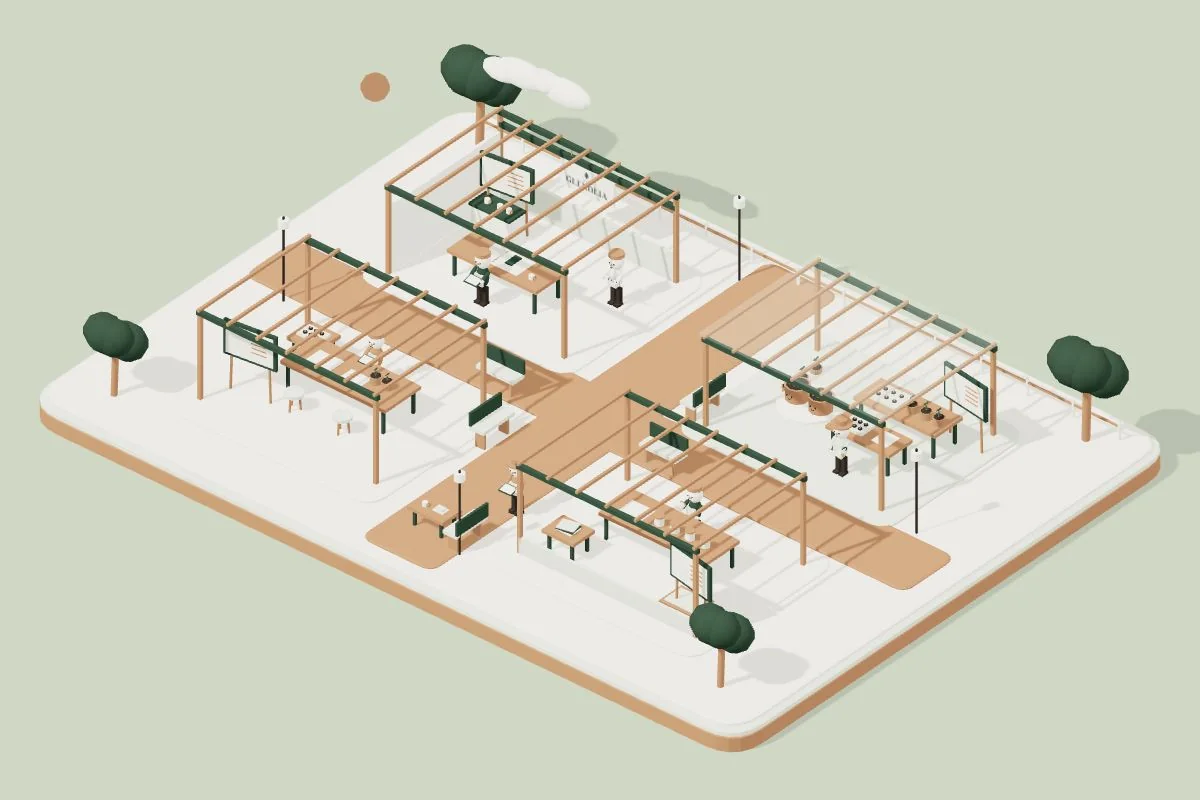
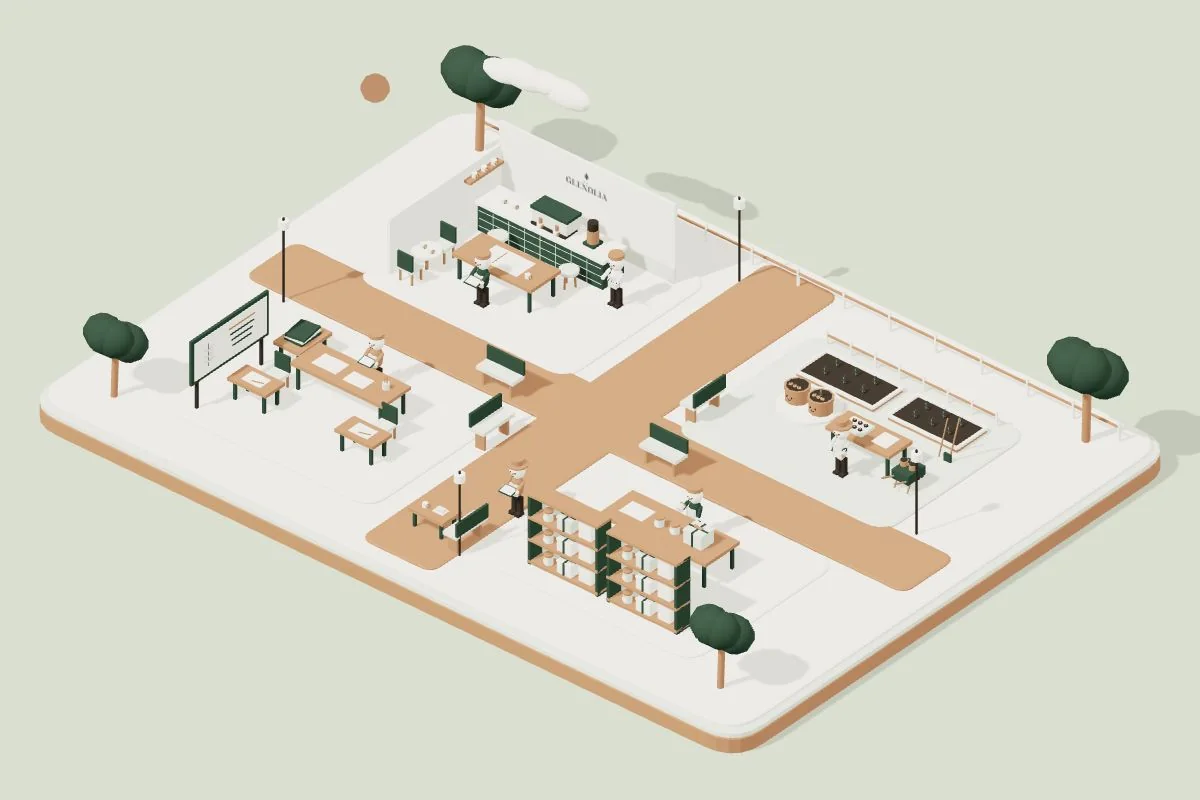
Differentiate roofless programme department scenes

Changed region(s): [[0.37, 0.3125, 0.8325, 0.8125], [0.1542, 0.125, 0.6167, 0.5938], [0.8633, 0.4688, 0.8942, 0.5]]

diff --git a/src/progress/programme-world.js b/src/progress/programme-world.js
@@ -86,12 +86,28 @@ function planningBoard(parent,x,z,rotation=0) {
   for (let i=0;i<4;i++) {box(g,.45,.02,.02,'sage',-.42,2.24-i*.16,.09);box(g,.55,.025,.02,'copper',.35,2.24-i*.16,.09);}
   return g;
 }
-function pergola(parent,x,z,w=6.5,d=5.2,roof=false) {
-  const g=group(parent,x,.43,z);
-  for (const a of [-1,1]) for (const b of [-1,1]) box(g,.13,3.2,.13,'copper',a*(w/2),1.6,b*(d/2));
-  for (const a of [-1,1]) box(g,w+.2,.16,.15,'green',0,3.23,a*d/2);
-  for (let i=0;i<7;i++) box(g,.09,.10,d+.22,'copper',-w/2+i*w/6,3.35,0);
-  if (roof) {const canopy=box(g,w+.3,.06,d+.3,'sage',0,3.45,0);canopy.material=material('sage',.32);canopy.castShadow=false;}
+function chair(parent,x,z,rotation=0) {
+  const g=group(parent,x,.43,z);g.rotation.y=rotation;
+  box(g,.58,.10,.56,'sage',0,.58,0);box(g,.58,.57,.07,'green',0,.90,-.25);
+  for(const a of [-1,1])for(const b of [-1,1])box(g,.055,.56,.055,'copper',a*.23,.28,b*.21);
+  return g;
+}
+function soilBed(parent,x,z,w,d) {
+  const g=group(parent,x,.43,z);box(g,w,.22,d,'copper',0,.11,0);box(g,w-.16,.045,d-.16,'ink',0,.23,0);
+  for(const a of [-1,1])box(g,w+.05,.08,.11,'ivory',0,.26,a*d/2);
+  for(const a of [-1,1])box(g,.11,.08,d,'ivory',a*w/2,.26,0);
+  return g;
+}
+function productShelf(parent,x,z,w=2.65) {
+  const g=group(parent,x,.43,z);box(g,w,2.5,.07,'sage',0,1.30,-.28);
+  for(const side of [-1,1])box(g,.10,2.65,.62,'green',side*w/2,1.33,0);
+  for(const h of [.20,1.00,1.8,2.62])box(g,w+.1,.09,.68,'copper',0,h,0);
+  return g;
+}
+function giftBox(parent,x,y,z,w=.55,h=.40,d=.45,colour='ivory') {
+  const g=group(parent,x,y,z);box(g,w,h,d,colour,0,h/2,0);box(g,w+.03,.06,d+.03,colour,0,h+.03,0);
+  box(g,.06,h+.07,d+.045,'green',0,(h+.07)/2,0);box(g,w+.04,.015,.055,'green',0,h+.07,0);
+  for(const side of [-1,1]){const ribbon=ball(g,.11,.035,.065,'copper',side*.085,h+.11,0);ribbon.rotation.z=side*.25;}
   return g;
 }
 function shadeTree(parent,x,z,size=1) {
@@ -202,39 +218,65 @@ function buildMiniature(scene,requestRender) {
   for(const x of [-11.9,11.9])for(const z of [-8.5,8.5])windPlants.push(shadeTree(root,x,z,z<0?1.15:.92));
   for(let i=0;i<15;i++){const x=-12.5+i*1.8;box(root,.075,.65,.075,'ivory',x,.79,-9.1);if(i<14)box(root,1.8,.065,.055,'copper',x+.9,.94,-9.1);}
 
-  // Café and farm programme planning: an open dollhouse, with plans rather than a service queue.
-  const cafe=pergola(root,-6.2,-4.2,6.9,5.2);
-  box(cafe,6.9,1.1,.12,'sage',0,.58,-2.6);box(cafe,.12,2.5,5.2,'ivory',-3.45,1.3,0);
-  box(cafe,6.9,.18,.14,'green',0,2.8,-2.6);planningBoard(root,-8.45,-5.7,.12);
-  const cafeTable=table(root,-6.5,-3.35,3.5,1.4);paper(cafeTable,0,1.055,0,1.55,.9);box(cafeTable,1.25,.018,.018,'sage',0,1.07,0);box(cafeTable,.018,.018,.7,'copper',-.25,1.07,0);mug(cafeTable,1.2,1.1,.25);
-  const layout=group(cafeTable,-.05,1.10,-.05);box(layout,.40,.19,.30,'sage',-.35,.09,0);box(layout,.25,.035,.5,'green',.3,.025,.02);
-  const shelf=group(cafe,-2.3,.1,-1.1);box(shelf,1.5,.9,.7,'ivory',0,.45,0);box(shelf,1.6,.08,.8,'green',0,.94,0);for(const x of [-.35,.15,.5])mug(shelf,x,1.07,.05);
+  // Roofless café: counter, coffee equipment and seating surround a planning table.
+  const cafe=group(root,-6.2,.43,-4.2);
+  box(cafe,6.9,2.95,.12,'ivory',0,1.48,-2.6);box(cafe,.12,2.1,5.2,'ivory',-3.45,1.06,0);
+  box(cafe,6.9,.62,.14,'sage',0,.32,-2.6);
+  const counter=group(root,-6.65,.43,-5.6);box(counter,4.9,1.04,1.0,'green',0,.52,0);box(counter,5.04,.12,1.12,'ivory',0,1.10,0);
+  for(let i=1;i<8;i++)box(counter,.018,.89,.018,'sage',-2.45+i*4.9/8,.51,.51);
+  for(const h of [.28,.56,.84])box(counter,4.8,.018,.018,'sage',0,h,.51);
+  const machine=group(counter,.20,1.17,0);box(machine,1.35,.52,.62,'sage',0,.26,0);box(machine,1.45,.10,.68,'green',0,.57,0);box(machine,1.35,.07,.68,'ink',0,.025,.04);
+  for(const x of [-.32,.32]){cylinder(machine,.06,.18,'copper',x,.23,.34);beam(machine,[x,.30,.28],[x,.15,.40],.025,'copper');mug(counter,x+.2,1.25,.39);}
+  cylinder(counter,.19,.51,'copper',1.65,1.43,0);cylinder(counter,.17,.26,'ink',1.65,1.82,0);box(counter,.43,.08,.45,'green',1.65,1.20,0);
+  for(const x of [-1.8,-1.35])mug(counter,x,1.25,.1);
+  const cafeTable=table(root,-6.5,-3.35,3.1,1.4);paper(cafeTable,0,1.055,0,1.55,.9);box(cafeTable,1.25,.018,.018,'sage',0,1.07,0);box(cafeTable,.018,.018,.7,'copper',-.25,1.07,0);mug(cafeTable,1.05,1.1,.25);
+  const cafeSeating=group(root,-8.95,.43,-2.55);cylinder(cafeSeating,.48,.09,'ivory',0,.76,0);cylinder(cafeSeating,.055,.72,'copper',0,.37,0);cylinder(cafeSeating,.30,.06,'green',0,.04,0);mug(cafeSeating,-.17,.88,0);mug(cafeSeating,.19,.88,.07);
+  chair(root,-8.95,-3.30);chair(root,-8.95,-1.80,Math.PI);
+  for(const x of [-7.9,-5.1])stool(root,x,-4.6);
+  box(cafe,.26,.09,1.55,'copper',-3.25,1.7,-1.6);for(const z of [-2.05,-1.60,-1.15])mug(cafe,-3.24,1.83,z);
 
-  // Coffee nursery: seed trays and small plants remain the initial illustrative state.
-  pergola(root,6.25,-4.2,6.9,5.2,true);
-  const nursery=table(root,7.7,-5.2,3.2,1.3,1.0);tray(nursery,-.7,1.11,0,1.2,.8);
-  for(const x of [.25,.8,1.3])windPlants.push(smallPlant(nursery,x,.1,.22,1.06));
+  // Gardening area: open soil beds and a potting bench, with young illustrative plants.
+  for(const [bx,width] of [[4.65,3.0],[8.1,2.7]]){
+    const bed=soilBed(root,bx,-6.1,width,1.4);
+    for(let i=0;i<6;i++){
+      const plant=group(bed,(i%3-1)*width*.25,.27,(Math.floor(i/3)-.5)*.55);
+      beam(plant,[0,0,0],[0,.22,0],.012);leaves(plant,.25,6);windPlants.push(plant);
+    }
+  }
+  for(let i=0;i<8;i++){const x=2.8+i*.95;box(root,.07,.60,.07,'ivory',x,.75,-7.25);if(i<7)box(root,.95,.055,.05,'copper',x+.475,.88,-7.25);}
   const seedBench=table(root,7.6,-3.5,2.5,1.1,.92);tray(seedBench,-.45,1.02,0,.85,.65);paper(seedBench,.65,1.02,0,.6,.65);
+  const barrow=group(root,9.45,.43,-3.15);box(barrow,.66,.32,.80,'green',0,.59,0);for(const side of [-1,1]){beam(barrow,[side*.25,.36,-.10],[side*.25,.75,.95],.03);beam(barrow,[side*.25,0,.4],[side*.25,.42,.2],.027);}
+  cylinder(barrow,.19,.10,'ink',0,.20,-.49).rotation.z=Math.PI/2;cylinder(barrow,.075,.13,'copper',0,.20,-.49).rotation.z=Math.PI/2;
+  for(const x of [-.17,.17])pot(barrow,x,0,.40,.77);
+  beam(root,[9.55,.45,-4.9],[9.85,2.15,-5.05],.028);box(root,.26,.36,.07,'green',9.53,.62,-4.88);
+  beam(root,[9.15,.46,-4.9],[9.40,1.95,-5.03],.024);beam(root,[9.00,.48,-4.85],[9.32,.48,-4.85],.025,'green');for(let i=0;i<5;i++)beam(root,[9.00+i*.08,.48,-4.85],[9.00+i*.08,.48,-4.55],.012,'green');
   const growthHolder=group(root,4.5,.57,-4.4);cylinder(root,1.05,.17,'ivory',4.5,.52,-4.4);
   const plantData={seedStage:'seed',trialStage:'seedling',heightCm:20},growthCache=new Map();
   let growth='actual',growthRoot=actualPlants(plantData);growthHolder.add(growthRoot);
-  planningBoard(root,9.35,-5.95,-.15);
-  for(const z of [-5.9,-5.25,-4.6])windPlants.push(smallPlant(root,3.5,z,.25));
 
-  // Hands-on workshops: a practice table, journals, sample pots and seating.
-  pergola(root,-6.25,4.6,6.9,5.0);
-  const work=table(root,-6.2,4.25,4.1,1.7,1.02);paper(work,-1,1.10,0,.95,.65);paper(work,.3,1.10,.12,.8,.55);
-  for(const x of [.9,1.35])smallPlant(work,x,-.1,.19,1.08);
-  for(const x of [-7.2,-5.3])stool(root,x,5.7);
-  planningBoard(root,-8.65,6.0,.12);const tools=table(root,-8.5,3.25,1.2,1.1,.83);tray(tools,0,.93,0,.85,.6);
+  // Open classroom: a generous teaching board, student desks and a hands-on table.
+  const classroom=group(root,-9.5,.43,6.0);classroom.rotation.y=Math.PI/2;
+  for(const side of [-1,1]){box(classroom,.09,2.55,.09,'ink',side*1.50,1.28,0);box(classroom,.56,.08,.68,'copper',side*1.5,.04,0);}
+  box(classroom,3.6,1.6,.09,'green',0,1.85,0);for(const side of [-1,1])box(classroom,3.35,1.36,.03,'ivory',0,1.85,side*.065);
+  for(const side of [-1,1]){const face=group(classroom,0,1.85,side*.07);face.rotation.y=side===1?0:Math.PI;beam(face,[-1.05,-.43,0],[-1.05,.40,0],.014,'green');for(let i=0;i<3;i++){const y=-.2+i*.2;for(const s of [-1,1])ball(face,.14,.035,.055,'sage',-1.05+s*.12,y,.025).rotation.z=s*.45;}for(let i=0;i<4;i++)box(face,1.20-i*.11,.035,.02,i===0?'copper':'green',.50,.40-i*.22,.025);}
+  const work=table(root,-6.2,4.25,3.6,1.35,1.02);paper(work,-.8,1.10,0,.95,.65);paper(work,.4,1.10,.12,.8,.55);cylinder(work,.12,.22,'sage',1.3,1.19,-.1);for(let i=0;i<3;i++)beam(work,[1.25+i*.05,1.22,-.1],[1.25+i*.05,1.53,-.1],.012);
+  for(const x of [-8.35,-4.15]){const desk=table(root,x,6.1,1.5,.90,.83);paper(desk,0,.902,0,.75,.53);box(desk,.40,.025,.025,'copper',.15,.93,.10).rotation.y=.30;chair(root,x,5.12);}
+  const resources=table(root,-8.8,3.4,1.05,1.5,.78);for(let i=0;i<3;i++)box(resources,.69,.075,.93,i%2?'sage':'green',0,.88+i*.085,0).rotation.y=.07*i;
 
-  // Local connections: choosing growers, makers and product presentation samples.
-  const local=pergola(root,6.3,4.6,6.9,5.0);box(local,6.9,.65,.13,'sage',0,.35,2.5);
+  // Gift and product samples: stocked display shelves and a wrapping/selection table.
+  for(const sx of [4.75,7.85]){
+    const shelf=productShelf(root,sx,7.05);
+    for(const h of [.25,1.05,1.85])for(let i=0;i<3;i++){
+      const x=(i-1)*.75;
+      if(i===0){cylinder(shelf,.15,.30,'sage',x,h+.15,.08);cylinder(shelf,.16,.055,'copper',x,h+.33,.08);box(shelf,.16,.11,.018,'ivory',x,h+.15,.235);}
+      else if(i===1)giftBox(shelf,x,h,.04,.55,.38,.45,h>1.5?'sage':'ivory');
+      else{box(shelf,.48,.52,.29,'ivory',x,h+.26,.04);const handle=mesh(shelf,new THREE.TorusGeometry(.12,.018,5,10,Math.PI),'copper',x,h+.55,.04);handle.rotation.z=0;}
+    }
+  }
   const selection=table(root,6.3,4.25,4.2,1.6,1.02);paper(selection,-1.25,1.1,0,.9,.65);
-  for(let i=0;i<4;i++){const x=-.25+i*.60;cylinder(selection,.15,.28,'sage',x,1.25,.15);cylinder(selection,.165,.05,'copper',x,1.42,.15);box(selection,.17,.11,.02,'ivory',x,1.25,.30);}
-  const crate=group(root,8.75,.44,6.35);box(crate,1.3,.55,1.05,'copper',0,.28,0);for(let i=0;i<3;i++)box(crate,1.32,.045,1.07,'ivory',0,.13+i*.18,0);box(crate,1.1,.035,.8,'sage',0,.57,0);
+  for(let i=0;i<2;i++){const x=-.25+i*.60;cylinder(selection,.15,.28,'sage',x,1.25,.15);cylinder(selection,.165,.05,'copper',x,1.42,.15);box(selection,.17,.11,.02,'ivory',x,1.25,.30);}
+  giftBox(selection,1.2,1.09,.05,.70,.43,.60,'sage');
   const swatches=table(root,3.9,6.1,1.25,1.0,.80);for(let i=0;i<3;i++)box(swatches,.6,.035,.5,['ivory','green','sage'][i],0,.89+i*.06,0).rotation.y=.12*i;
-  planningBoard(root,9.15,6.6,-.2);
 
   // Break benches sit in the lanes; routes stop at their front, with room to pass.
   bench(root,-1.7,3.0,Math.PI/2);bench(root,2.25,-2.1,-Math.PI/2);bench(root,-3.2,.85);bench(root,3.2,.85);bench(root,1.2,7.7,-Math.PI/2);
@@ -255,7 +297,6 @@ function buildMiniature(scene,requestRender) {
   const base=document.querySelector('meta[name=site-base]')?.content||'';
   const texture=new THREE.TextureLoader().load(base+'/assets/email/logo-compact.png',requestRender,undefined,()=>{});texture.colorSpace=THREE.SRGBColorSpace;
   box(root,2.08,1.10,.08,'ivory',-6.2,2.7,-6.78);
-  for(const x of [-6.85,-5.55])beam(root,[x,3.66,-6.80],[x,3.24,-6.80],.018,'copper');
   const logo=new THREE.Mesh(new THREE.PlaneGeometry(1.85,.94),new THREE.MeshBasicMaterial({map:texture,transparent:true,depthWrite:false}));logo.position.set(-6.2,2.7,-6.72);root.add(logo);
   batchStatic(root,new Set([...windPlants,growthHolder,...actors.map(actor=>actor.root)]));
   function refreshGrowth(stage){

diff --git a/PROGRAMME_WORLD.md b/PROGRAMME_WORLD.md
@@ -8,6 +8,11 @@ clock/weather enhancement run only on the programme subpage. The existing
 farm/café construction miniature remains on the parent Progress page and has its
 own [maintenance guide](PROGRESS_WORLD.md).
 
+The programme miniature uses four open, roofless settings so each area is easy
+to recognise: a café counter and seating, a seed-starting garden, a hands-on
+classroom, and shelves of illustrative local gifts and products. These are
+playful programme settings, not a completed site layout or confirmed stock.
+
 ## Public routes and content
 
 | Language | Programme page |
